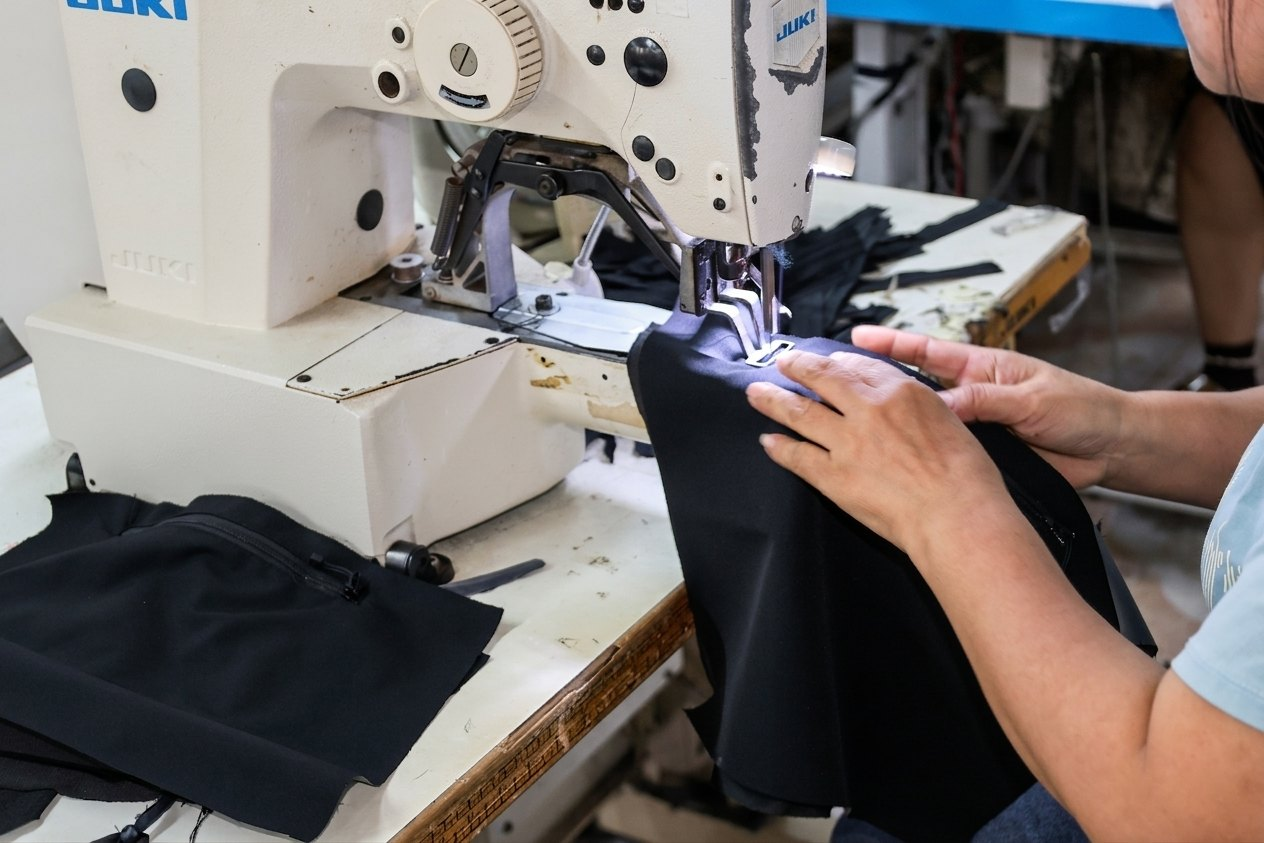
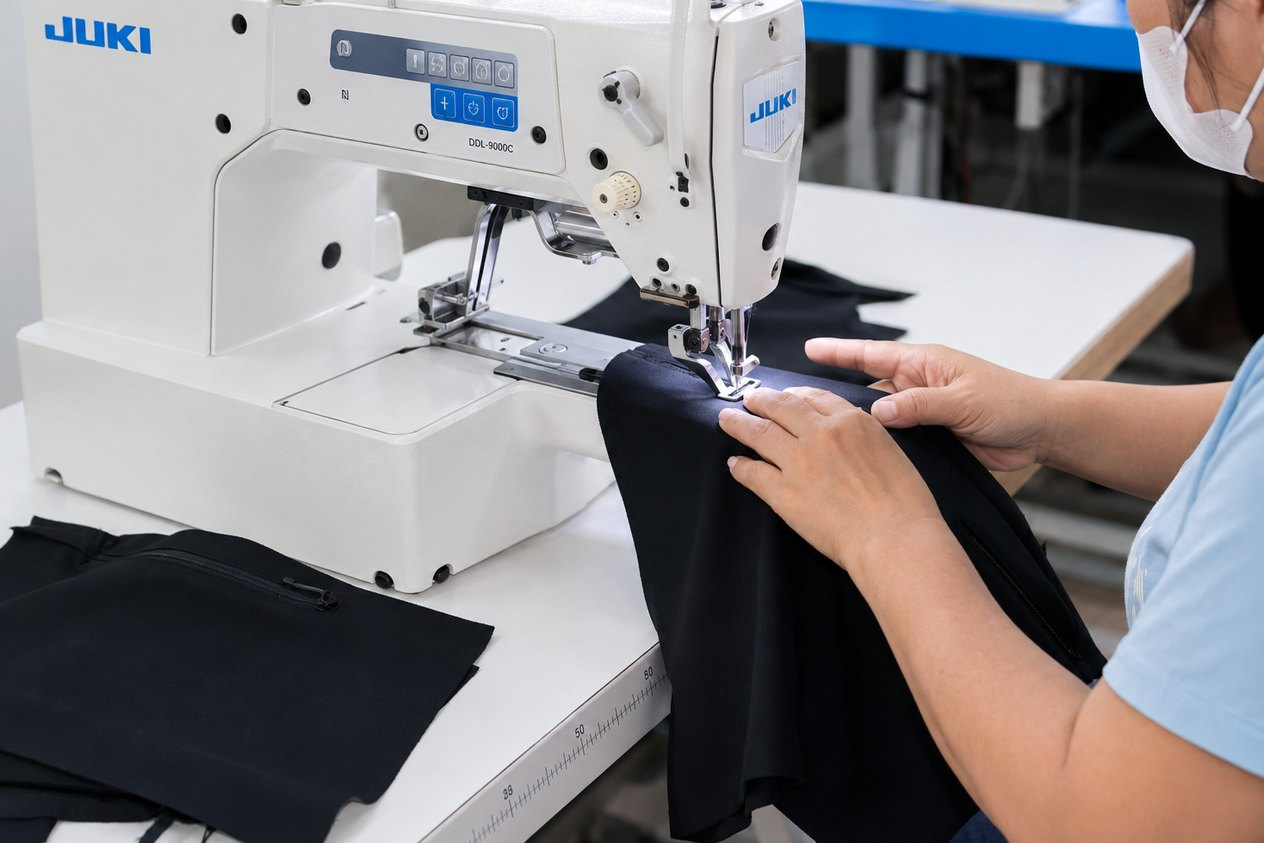
Đổi ảnh Về chúng tôi (10_57_47, đen trắng) và Công đoạn may (11_05_52, màu)

diff --git a/public/index.html b/public/index.html
@@ -105,7 +105,7 @@
         <div class="split">
           <div class="split__media" data-reveal>
             <div class="media-frame">
-              <img src="assets/img/floor.jpg?v=4" alt="Nhà xưởng sản xuất May Đông Thành" width="1600" height="900">
+              <img src="assets/img/floor.jpg?v=5" alt="Nhà xưởng sản xuất May Đông Thành" width="1600" height="900">
               <span class="media-tag" data-en="Quang Ngai facility">Xưởng tại Quảng Ngãi</span>
             </div>
           </div>
@@ -231,7 +231,7 @@
           <figure class="cert-thumb"><img src="assets/img/gallery/g1.jpg?v=9" alt="Xưởng may quy mô" loading="lazy"><figcaption data-en="Sewing floor">Xưởng may quy mô</figcaption></figure>
           <figure class="cert-thumb"><img src="assets/img/gallery/g2.jpg?v=9" alt="Dây chuyền may" loading="lazy"><figcaption data-en="Sewing line">Dây chuyền may</figcaption></figure>
           <figure class="cert-thumb"><img src="assets/img/gallery/g3.jpg?v=7" alt="Trải và cắt vải" loading="lazy"><figcaption data-en="Fabric cutting">Trải &amp; cắt vải</figcaption></figure>
-          <figure class="cert-thumb"><img src="assets/img/gallery/g4.jpg?v=8" alt="Công đoạn may" loading="lazy"><figcaption data-en="Sewing">Công đoạn may</figcaption></figure>
+          <figure class="cert-thumb"><img src="assets/img/gallery/g4.jpg?v=9" alt="Công đoạn may" loading="lazy"><figcaption data-en="Sewing">Công đoạn may</figcaption></figure>
           <figure class="cert-thumb"><img src="assets/img/gallery/g5.jpg?v=7" alt="Là ủi hoàn thiện" loading="lazy"><figcaption data-en="Pressing &amp; finishing">Là ủi hoàn thiện</figcaption></figure>
           <figure class="cert-thumb"><img src="assets/img/gallery/g6.jpg?v=8" alt="Kiểm tra và đóng gói" loading="lazy"><figcaption data-en="Inspection &amp; packing">Kiểm tra &amp; đóng gói</figcaption></figure>
           <figure class="cert-thumb"><img src="assets/img/gallery/g7.jpg?v=7" alt="Hoàn thiện sản phẩm" loading="lazy"><figcaption data-en="Finishing">Hoàn thiện sản phẩm</figcaption></figure>
